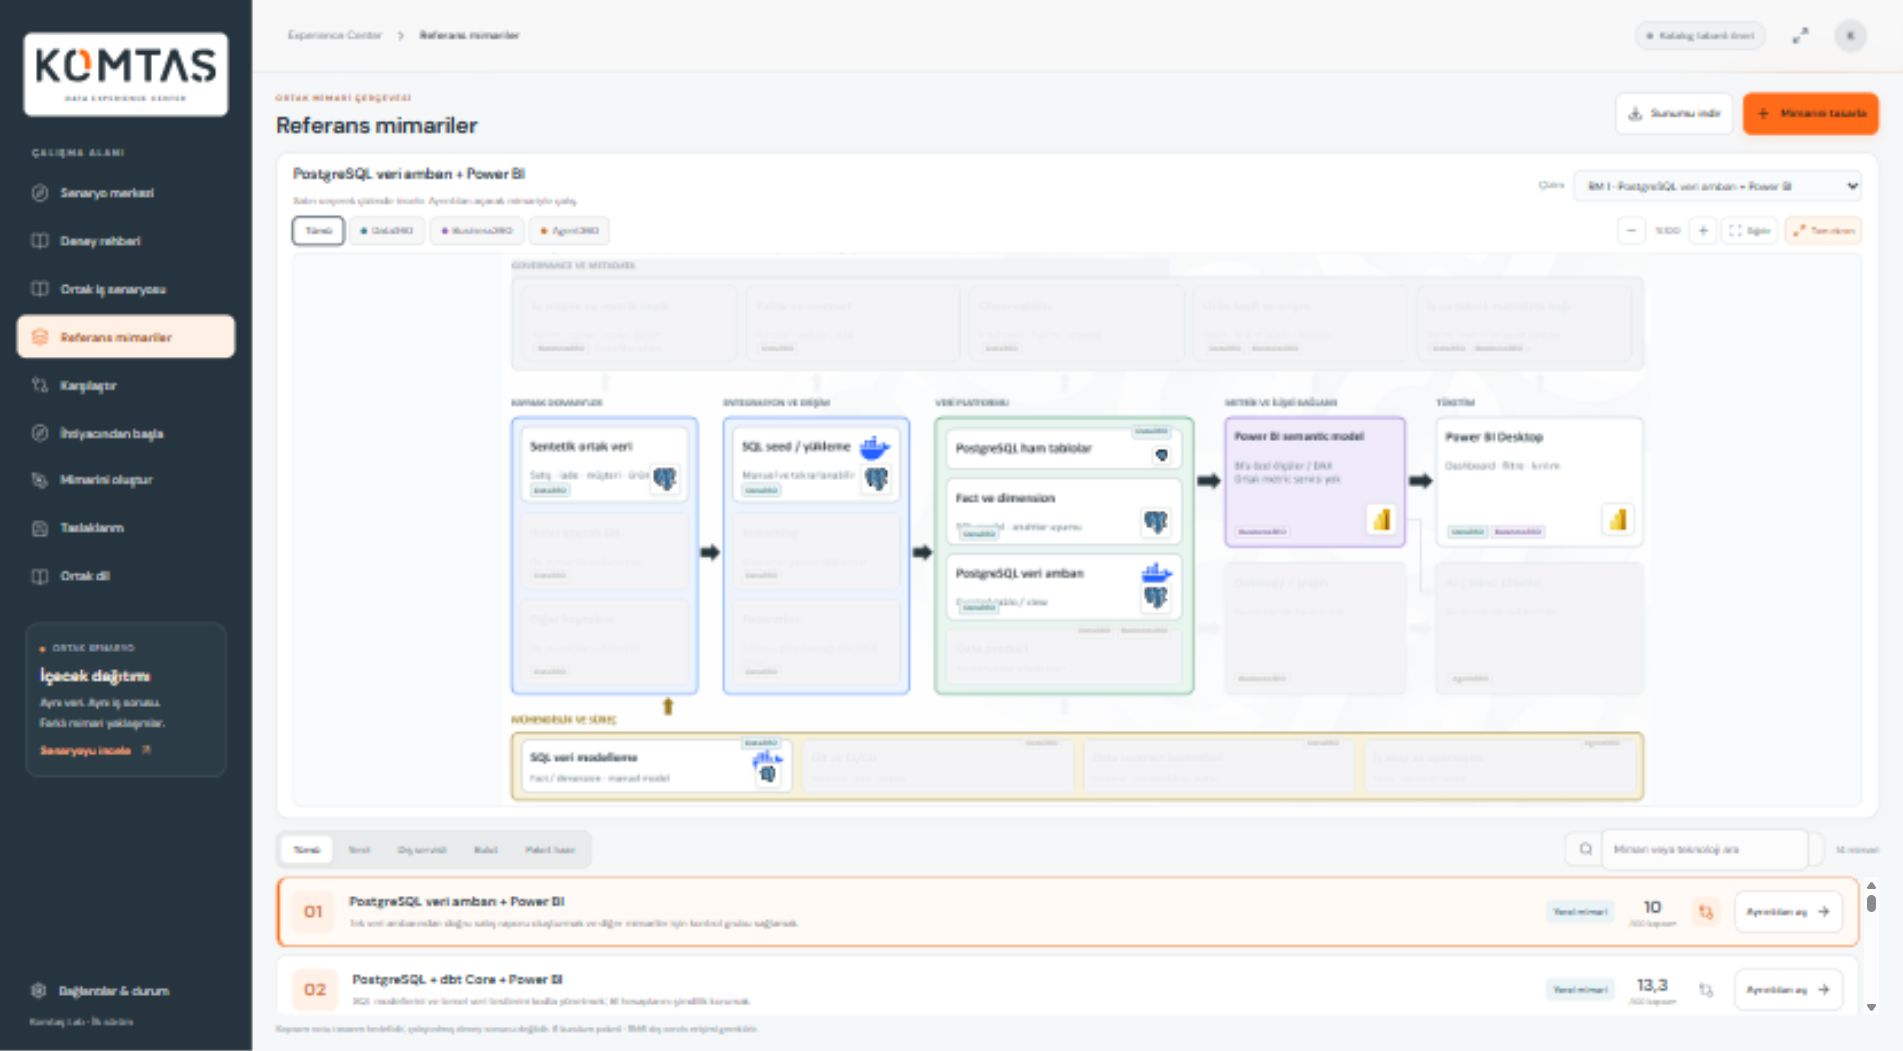
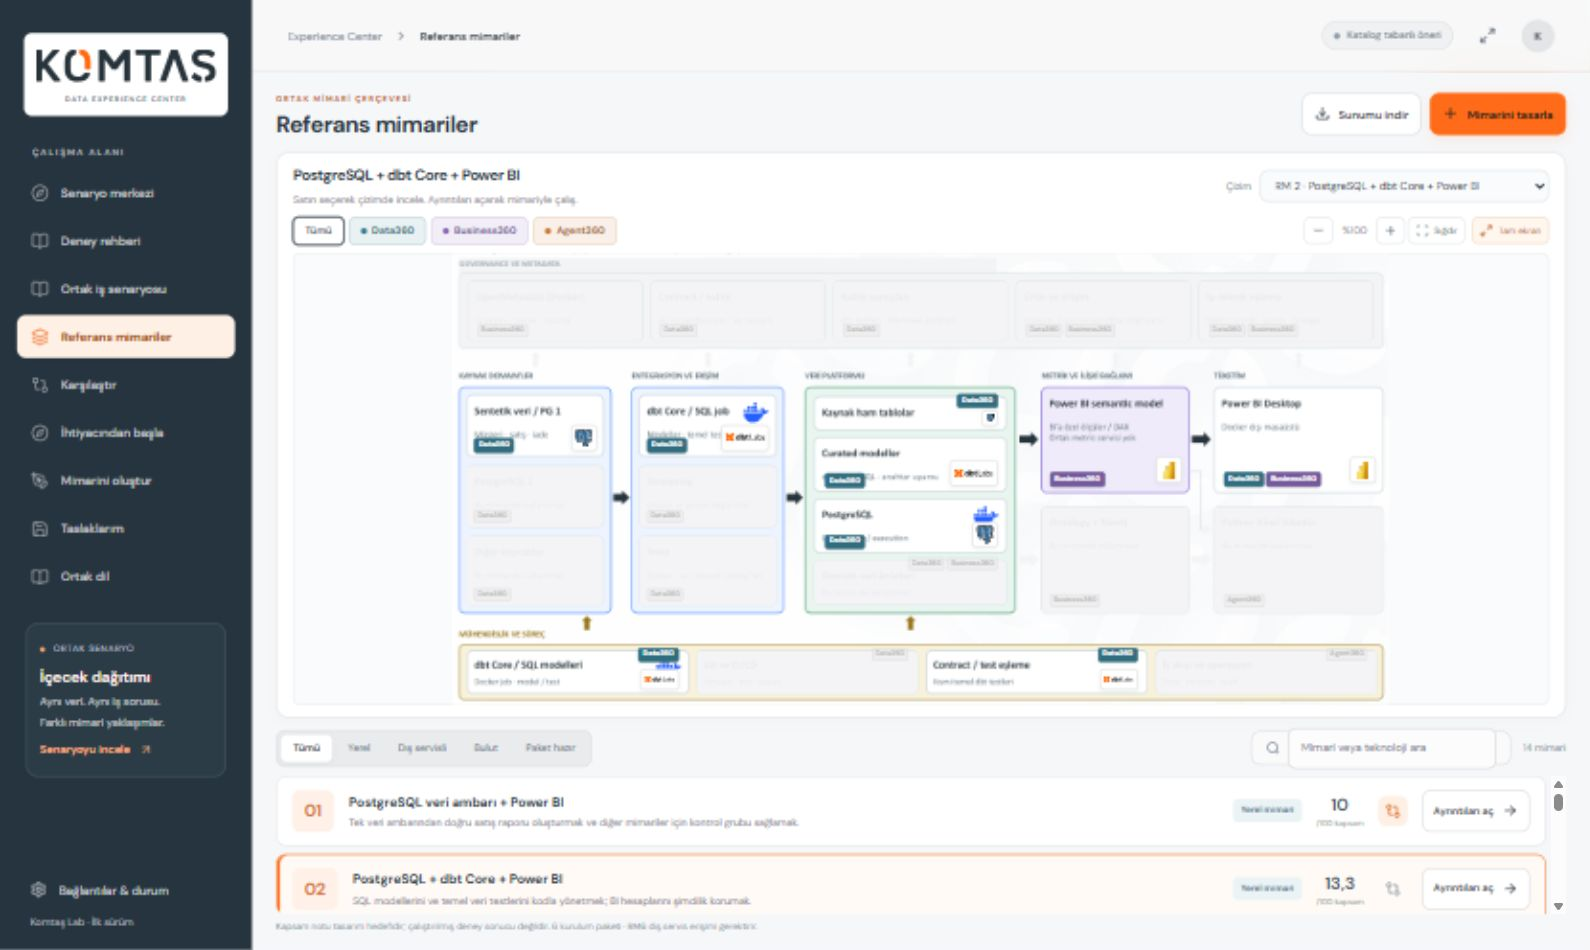
Improve 360 badge visibility with solid accessible fills

diff --git a/src/workbench.css b/src/workbench.css
@@ -51,3 +51,10 @@ main.view-catalog,main.view-detail,main.view-scenarios{height:auto!important;fle
 .diagram-compact .canonical-scroll{height:calc(min(var(--canvas-height,36dvh),calc(100cqw / 2.0819)) + 2px)}
 .diagram-compact .diagram-zoom-controls button>span{display:inline;width:auto;height:auto;background:none;border-radius:0;margin:0;white-space:nowrap}
 @media(max-width:560px){.diagram-compact .diagram-zoom-controls .diagram-fit span,.diagram-compact .diagram-zoom-controls .diagram-expand span{display:none}}
+.canonical-hotspot .role-value-tag:not(.planned){background:color-mix(in srgb,var(--tag-color) 80%,#1d2b34);border-color:color-mix(in srgb,var(--tag-color) 75%,#1d2b34);color:#fff;font-weight:750;font-size:clamp(6px,.76cqw,12px);padding:.18cqw .4cqw;border-radius:.32cqw;box-shadow:0 1px 3px #172a3d22;letter-spacing:.01em}
+.canonical-hotspot .role-value-tag.planned{background:#e6eaee;border-color:#ccd3da;color:#6b7782;font-weight:600;box-shadow:none}
+.canonical-hotspot.value-role-in-scope .role-tag-list,.canonical-hotspot.value-role-focus .role-tag-list{opacity:1;filter:none}
+.value-focus-tabs>button:not(:first-child){background:color-mix(in srgb,var(--value-color) 11%,white);border-color:color-mix(in srgb,var(--value-color) 35%,white);color:color-mix(in srgb,var(--value-color) 82%,#1d2b34);font-weight:650}
+.value-focus-tabs>button:not(:first-child)[aria-pressed=true]{background:color-mix(in srgb,var(--value-color) 80%,#1d2b34);border-color:color-mix(in srgb,var(--value-color) 80%,#1d2b34);color:white;box-shadow:none}
+.value-focus-tabs>button:not(:first-child)[aria-pressed=true]>span{background:white}
+.value-focus-tabs>button:not(:first-child)[aria-pressed=true]>small{color:#ffffffd9}
